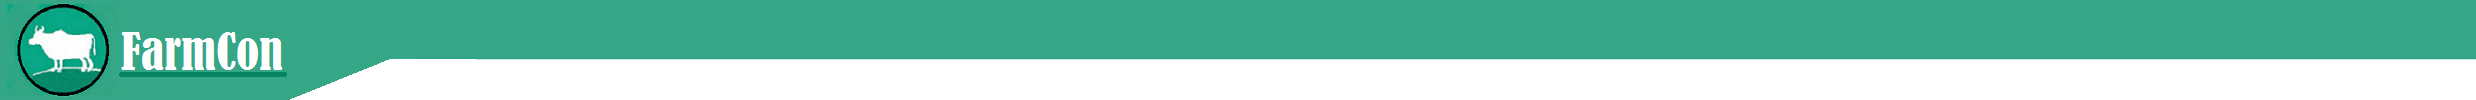
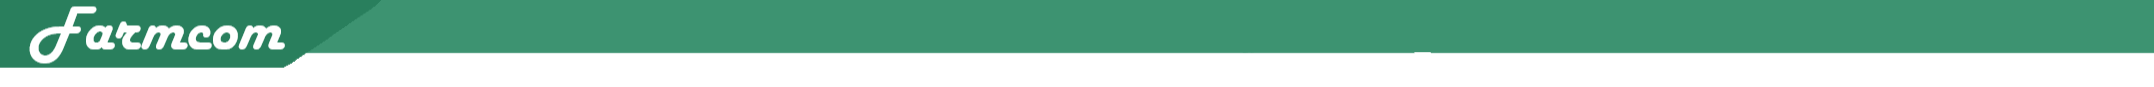
Apaguei a maioria das imagens, e alterei boa parte das telas (obs: vou alterar as outras ainda)

Changed region(s): [[0.0, 0.0, 1.0, 1.0]]

diff --git a/src/visao/Estilizar.css b/src/visao/Estilizar.css
@@ -1,24 +1,14 @@
-.capaAnaliseCenario
-{
-
--fx-background-image: url('../visao/img/AnaliseCenario.png');
--fx-background-position: center;
--fx-background-repeat: no-repeat;
-
-}
-
 .aplicarBarra
 {
-    -fx-background-image: url('../visao/img/BarraM.png');
+    -fx-background-image: url('../visao/img/Barra.png');
     -fx-background-repeat: no-repeat;
     -fx-background-attachment: fixed;
-
 }
 
 .capaPrincipal
 {
 
--fx-background-image: url('../visao/img/FundoVazio.png');
+-fx-background-image: url('../visao/img/Principal.png');
 -fx-background-position: center;
 -fx-background-repeat: no-repeat;
 -fx-background-attachment: fixed;
@@ -26,51 +16,19 @@
 }
 
 
-.capaAnimais
+
+.criarCaixa
 {
-
--fx-background-image: url('../visao/img/Animais.png');
--fx-background-position: center;
+-fx-background-color: rgba(240,240,240,0.8);
 -fx-background-repeat: no-repeat;
--fx-background-attachment: fixed;
+-fx-size: 35;
 
 }
-
-.capaFazendas
-{
-
--fx-background-image: url('../visao/img/Fazendas.png');
--fx-background-position: center;
--fx-background-repeat: no-repeat;
--fx-background-attachment: fixed;
-
-}
-
-.capaCenarioProdutivo
-{
-
--fx-background-image: url('../visao/img/CenarioProdutivo.png');
--fx-background-position: center;
--fx-background-repeat: no-repeat;
--fx-background-attachment: fixed;
-
-}
-
-.capaSimulacoes
-{
-
--fx-background-image: url('../visao/img/Simulacoes.png');
--fx-background-position: center;
--fx-background-repeat: no-repeat;
--fx-background-attachment: fixed;
-
-}
-
 
 .button
 {
   -fx-background-color: rgb(19, 144, 113);
-  -fx-padding: 12px;
+  -fx-padding: 11px;
   -fx-text-fill: white;
   -fx-border-color: white;
  
